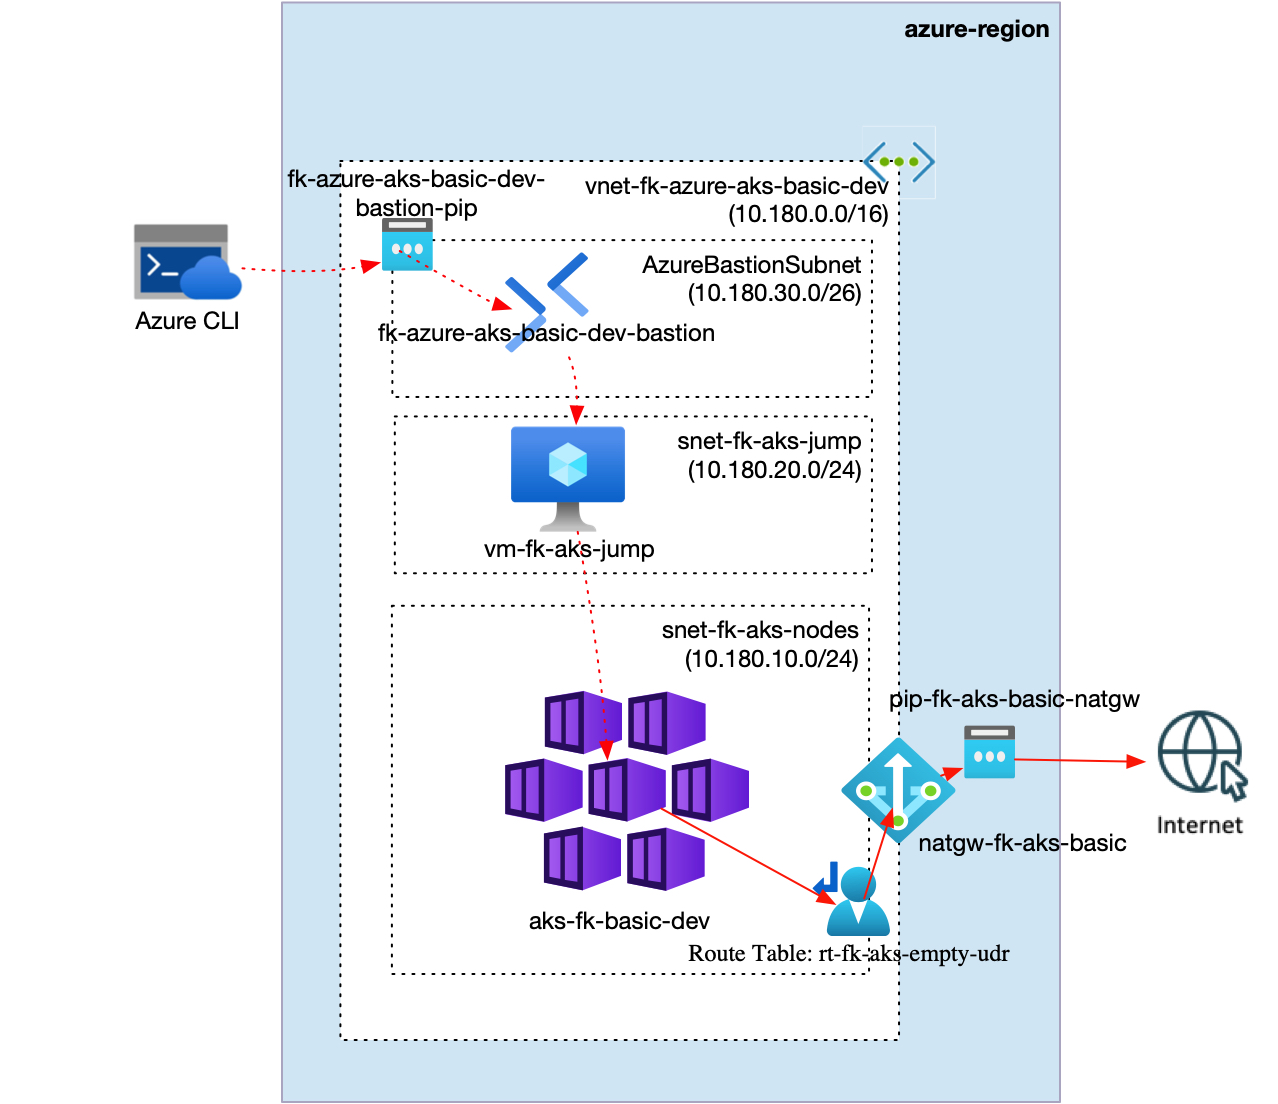
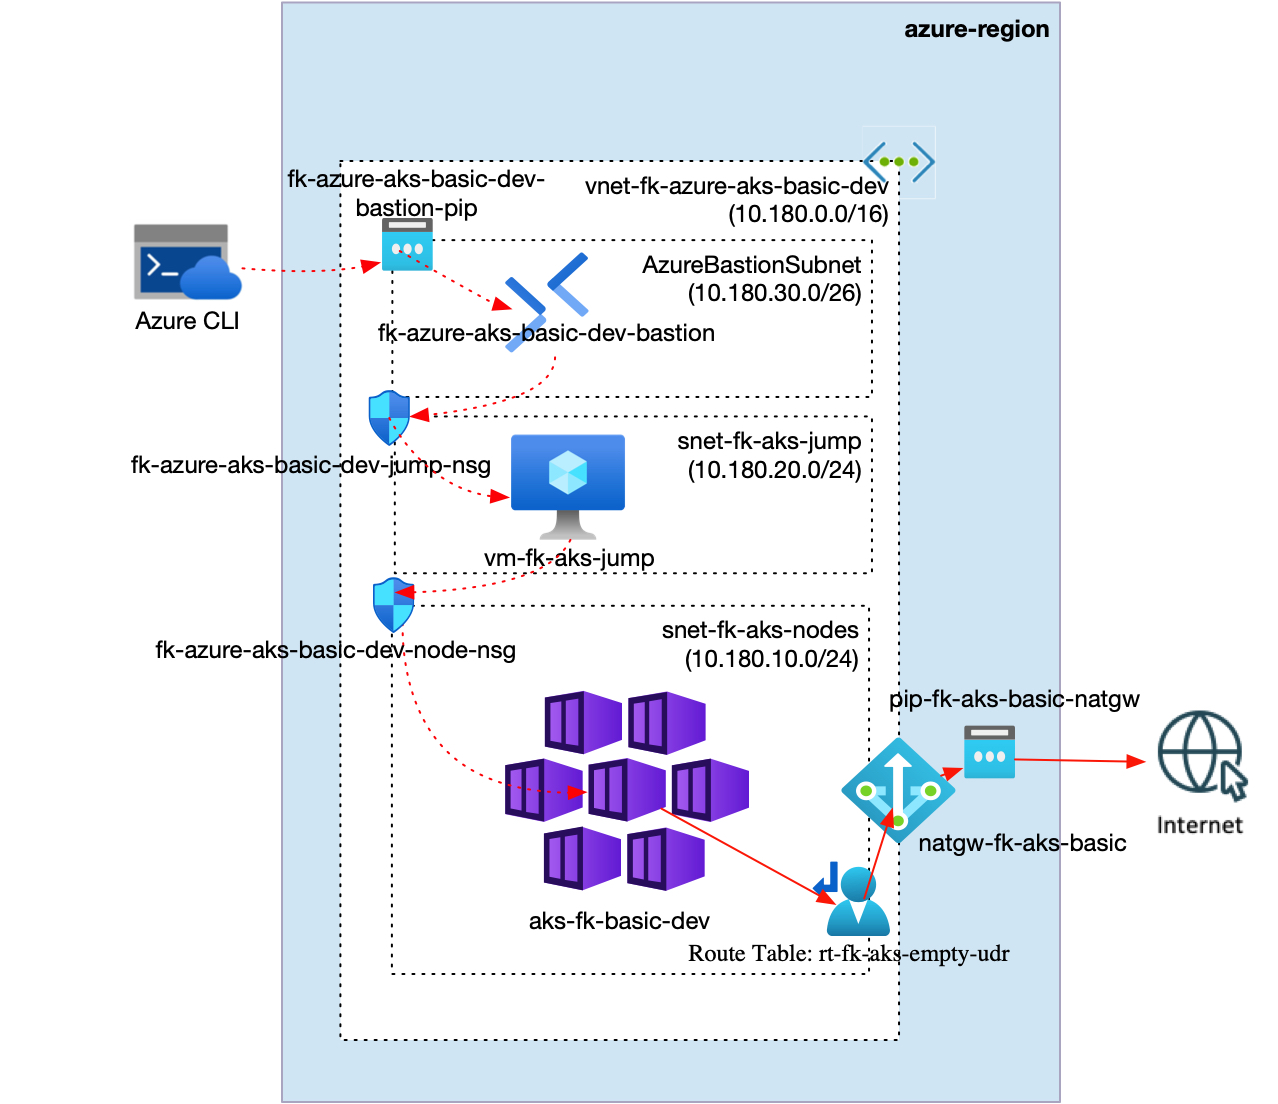
Document AKS basic validation evidence

Changed region(s): [[0.0915, 0.3388, 0.5188, 0.5236], [0.1221, 0.5236, 0.3967, 0.6159], [0.4272, 0.7083, 0.4577, 0.7391]]

diff --git a/examples/azure/aks/basic/README.md b/examples/azure/aks/basic/README.md
@@ -46,11 +46,11 @@ The `aks_basic` pattern composes one VNet with an AKS node subnet, a dedicated j
 cp terraform.tfvars.example terraform.tfvars
 tofu init
 tofu validate
+tofu plan
+tofu apply
 ```
 
-Replace the placeholder values in `terraform.tfvars` before running a real plan or apply.
-
-This PR validates only `tofu fmt`, `tofu init`, and `tofu validate`. It does not run `tofu plan` or `tofu apply` against a real subscription.
+Replace the placeholder values in `terraform.tfvars` before planning.
 
 ## Validation Flow
 
@@ -69,6 +69,88 @@ Expected result:
 - the jump host has no public IP and operator SSH goes through Azure Bastion
 - direct Internet-originated inbound traffic to the AKS node subnet is denied by NSG
 - AKS uses `outbound_type = "userDefinedRouting"` with an empty route table, while the subnet-associated NAT Gateway provides outbound egress for private nodes
+
+## Validation Result
+
+Validation output from the deployed example through Azure Bastion:
+
+```text
+== client host ==
+vm-fk-aks-jump
+
+== client addresses ==
+10.180.20.4
+lo               UNKNOWN        127.0.0.1/8 ::1/128
+eth0             UP             10.180.20.4/24 metric 100 fe80::20d:3aff:fe2e:6e40/64
+
+== aks private dns ==
+10.180.10.4     aks-fk-basic-dev-jfpxuv41.343499fb-c03e-4038-b544-b97708374e03.privatelink.westeurope.azmk8s.io
+
+== aks tcp 443 ==
+Connection to aks-fk-basic-dev-jfpxuv41.343499fb-c03e-4038-b544-b97708374e03.privatelink.westeurope.azmk8s.io (10.180.10.4) 443 port [tcp/https] succeeded!
+
+== aks https /version ==
+HTTP/2 401
+audit-id: 9558a1fe-e141-48d0-b1c0-d38530d870a0
+cache-control: no-cache, private
+content-type: application/json
+content-length: 157
+date: Thu, 17 Sep 2026 08:59:40 GMT
+
+{
+  "kind": "Status",
+  "apiVersion": "v1",
+  "metadata": {},
+  "status": "Failure",
+  "message": "Unauthorized",
+  "reason": "Unauthorized",
+  "code": 401
+}
+```
+
+The `401 Unauthorized` response is expected for an unauthenticated API request. It confirms that the private AKS API endpoint is reachable from the jump host through private DNS and TCP `443`.
+
+## Azure Portal Verification
+
+<img src="diagrams/azure_aks_basic_resource_group_overview.jpg" alt="Resource Group overview" width="900"/>
+
+**Figure 2.** Resource Group overview after deployment.
+
+<img src="diagrams/azure_aks_basic_vnet_subnets.jpg" alt="VNet subnets" width="900"/>
+
+**Figure 3.** VNet subnets for AKS nodes, jump host, and Azure Bastion.
+
+<img src="diagrams/azure_aks_basic_aks_overview.jpg" alt="AKS overview" width="900"/>
+
+**Figure 4.** AKS overview with private API server address.
+
+<img src="diagrams/azure_aks_basic_aks_networking.jpg" alt="AKS networking" width="900"/>
+
+**Figure 5.** AKS virtual network integration with the node subnet.
+
+<img src="diagrams/azure_aks_basic_route_table.jpg" alt="AKS route table" width="900"/>
+
+**Figure 6.** Empty route table associated to the AKS node subnet for `userDefinedRouting`.
+
+<img src="diagrams/azure_aks_basic_nat_gateway.jpg" alt="NAT Gateway overview" width="900"/>
+
+**Figure 7.** NAT Gateway used for outbound egress from the private AKS and jump subnets.
+
+<img src="diagrams/azure_aks_basic_bastion_overview.jpg" alt="Azure Bastion overview" width="900"/>
+
+**Figure 8.** Azure Bastion used for operator access to the private jump host.
+
+<img src="diagrams/azure_aks_basic_jump_vm_networking.jpg" alt="Jump VM networking" width="900"/>
+
+**Figure 9.** Private jump VM networking in the dedicated jump subnet.
+
+<img src="diagrams/azure_aks_basic_node_nsg_rules.jpg" alt="AKS node NSG rules" width="900"/>
+
+**Figure 10.** AKS node subnet NSG rules denying direct Internet inbound traffic.
+
+<img src="diagrams/azure_aks_basic_jump_nsg_rules.jpg" alt="Jump host NSG rules" width="900"/>
+
+**Figure 11.** Jump subnet NSG rules allowing SSH only from the Bastion subnet and denying direct Internet inbound traffic.
 
 ## Destroy
 

diff --git a/examples/azure/aks/basic/diagrams/README.md b/examples/azure/aks/basic/diagrams/README.md
@@ -1,18 +1,21 @@
 # Diagrams
 
-This directory is reserved for screenshots captured after a manual `tofu apply`.
+This directory contains screenshots captured after a manual `tofu apply`.
 
-Suggested evidence for this example:
+Evidence captured for this example:
 
-- AKS basic architecture diagram
-- Resource Group overview
-- VNet subnets showing AKS node subnet, jump subnet, and `AzureBastionSubnet`
-- AKS cluster overview
-- AKS networking page showing private cluster configuration
-- NAT Gateway overview and subnet association
-- Azure Bastion overview
-- jump VM networking page showing private IP only in the jump subnet
-- node and jump NSG rules for denied Internet inbound and Bastion-sourced SSH/RDP to the jump subnet
-- Bastion session output showing private AKS API DNS and TCP `443` validation
+- `azure_aks_basic_architecture.jpg` - AKS basic architecture diagram
+- `azure_aks_basic_resource_group_overview.jpg` - Resource Group overview
+- `azure_aks_basic_vnet_subnets.jpg` - VNet subnets showing AKS node subnet, jump subnet, and `AzureBastionSubnet`
+- `azure_aks_basic_aks_overview.jpg` - AKS cluster overview
+- `azure_aks_basic_aks_networking.jpg` - AKS networking page showing private cluster configuration
+- `azure_aks_basic_route_table.jpg` - empty route table associated to the AKS node subnet
+- `azure_aks_basic_nat_gateway.jpg` - NAT Gateway overview and subnet association
+- `azure_aks_basic_bastion_overview.jpg` - Azure Bastion overview
+- `azure_aks_basic_jump_vm_networking.jpg` - jump VM networking page showing private placement in the jump subnet
+- `azure_aks_basic_node_nsg_rules.jpg` - AKS node subnet NSG rules denying direct Internet inbound traffic
+- `azure_aks_basic_jump_nsg_rules.jpg` - jump subnet NSG rules allowing SSH only from the Bastion subnet and denying direct Internet inbound traffic
+
+The Bastion validation output is recorded in the parent example README instead of as a screenshot.
 
 Do not commit Terraform state, provider caches, SSH private keys, or generated kubeconfig files here.

diff --git a/README.md b/README.md
@@ -261,6 +261,22 @@ Shared orchestration patterns:
 
 ---
 
+## Azure AKS Coverage
+
+The public orchestrator includes a focused Azure AKS teaser-tier landing-zone pattern for a single-region private cluster. It keeps the network self-contained instead of reusing the broader hub-spoke or firewall-transit patterns.
+
+Current Azure AKS example:
+
+- Private AKS basic baseline with Azure Bastion operator access and NAT Gateway egress: [examples/azure/aks/basic](examples/azure/aks/basic/README.md)
+
+| Scenario | Pattern | Network shape | Validation path |
+| --- | --- | --- | --- |
+| Private AKS basic | `patterns/azure/aks_basic` | one VNet with AKS node, jump, and `AzureBastionSubnet` subnets | Azure Bastion to private jump host, then private AKS API DNS and TCP `443` checks |
+
+This public pattern deliberately excludes Azure Firewall transit, ACR integration, customer-managed keys, additional node pools, autoscaling, diagnostics, multi-region, and DR. Those concerns belong in the premium `aks_firewall_transit` blueprint tier.
+
+---
+
 ## Azure Database Coverage
 
 The public orchestrator includes focused, single-region Azure private database landing-zone patterns. Each pattern keeps networking self-contained instead of reusing the full hub-spoke pattern, and uses Azure Bastion for operator access to a private validation host.

diff --git a/docs/README.md b/docs/README.md
@@ -47,6 +47,16 @@ The public orchestrator currently includes Azure private database landing-zone p
 
 These patterns use self-contained single-region VNets with Azure Bastion and a private validation host. They do not reuse the broader `hub_spoke` topology.
 
+## Azure AKS Coverage
+
+The public orchestrator currently includes one Azure AKS teaser-tier pattern:
+
+| Scenario | Pattern | Current scope |
+| --- | --- | --- |
+| Private AKS basic | `patterns/azure/aks_basic` | single-region private AKS cluster with Azure Bastion, NAT Gateway egress, subnet NSGs, empty route table for `userDefinedRouting`, and a private jump host |
+
+The AKS pattern is intentionally narrower than the premium `aks_firewall_transit` blueprint. Azure Firewall transit, ACR, customer-managed keys, additional node pools, autoscaling, diagnostics, multi-region, and DR are outside this public pattern.
+
 ---
 
 ## 🧭 Recommended Reading Order

diff --git a/docs/payload-contract.md b/docs/payload-contract.md
@@ -265,7 +265,7 @@ data:
   aks:
     cluster:
       name: aks-fk-basic-dev
-      kubernetes_version: "1.33.5"
+      kubernetes_version: "1.34"
       network_plugin: azure
       service_cidr: 10.200.0.0/16
       dns_service_ip: 10.200.0.10
